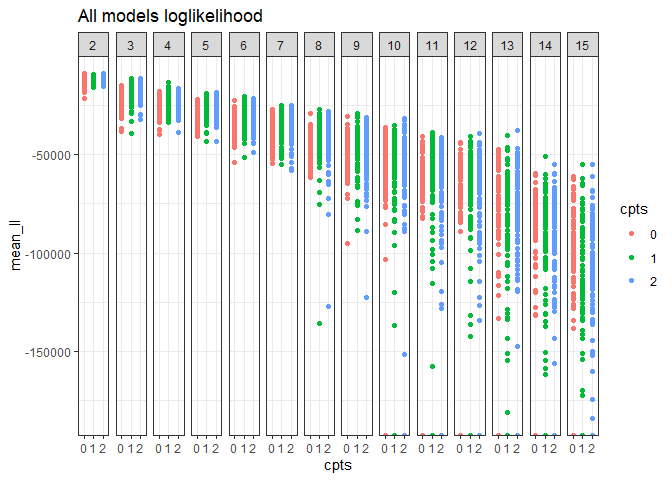
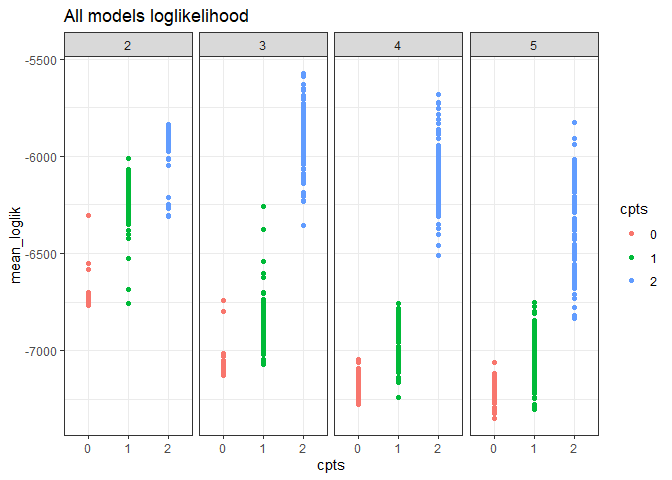
run this

diff --git a/analysis/reports/crossval_scale_results.md b/analysis/reports/crossval_scale_results.md
@@ -44,19 +44,20 @@ all_evals <- all_evals %>%
 #   ggtitle("All models loglikelihood")
 
 all_evals_summary <- all_evals %>%
-  group_by(k, seed, cpts, cpts_seed_k, cpts_k) %>%
-  summarize(mean_ll = mean(loglik),
-            upper_97_ll = quantile(loglik, probs = .975),
-            lower_2_ll = quantile(loglik, probs = .025),
-            n_infinite = sum(is.infinite(loglik))) %>%
+  group_by(k, seed, cpts, cpts_seed_k, cpts_k, mean_loglik) %>%
+  summarize(mean_ll = mean(loglik, na.rm = T),
+            upper_97_ll = quantile(loglik, probs = .975, na.rm= T),
+            lower_2_ll = quantile(loglik, probs = .025, na.rm =T),
+            n_infinite = sum(is.infinite(loglik)),
+            n_na = sum(is.na(loglik))) %>%
   ungroup() %>%
-  arrange(desc(mean_ll))
+  arrange(desc(mean_loglik))
 ```
 
-    ## `summarise()` regrouping output by 'k', 'seed', 'cpts', 'cpts_seed_k' (override with `.groups` argument)
+    ## `summarise()` regrouping output by 'k', 'seed', 'cpts', 'cpts_seed_k', 'cpts_k' (override with `.groups` argument)
 
 ``` r
-ggplot(all_evals_summary, aes(x = cpts, y = mean_ll, color = cpts)) +
+ggplot(all_evals_summary, aes(x = cpts, y = mean_loglik, color = cpts)) +
   geom_point() +
 facet_wrap(vars(k), nrow = 1) +
   theme_bw() +
@@ -74,40 +75,44 @@ all_evals_summary <- all_evals_summary %>%
 head(all_evals_summary)
 ```
 
-    ## # A tibble: 6 x 10
-    ##   k     seed  cpts  cpts_seed_k cpts_k mean_ll upper_97_ll lower_2_ll n_infinite
-    ##   <fct> <fct> <fct> <chr>       <chr>    <dbl>       <dbl>      <dbl>      <int>
-    ## 1 2     106   2     2_106_2     2_2     -8797.      -7335.    -10208.          0
-    ## 2 2     78    2     2_78_2      2_2     -8822.      -7487.    -10320.          0
-    ## 3 2     148   0     0_148_2     2_0     -8967.      -8565.     -9382.          0
-    ## 4 2     168   2     2_168_2     2_2     -8976.      -7603.    -10947.          0
-    ## 5 2     148   1     1_148_2     2_1     -9057.      -8594.     -9556.          0
-    ## 6 2     148   2     2_148_2     2_2     -9090.      -8646.     -9558.          0
-    ## # ... with 1 more variable: in_95 <lgl>
+<div class="kable-table">
+
+| k | seed | cpts | cpts\_seed\_k | cpts\_k | mean\_loglik |   mean\_ll | upper\_97\_ll | lower\_2\_ll | n\_infinite | n\_na | in\_95 |
+| :- | :--- | :--- | :------------ | :------ | -----------: | ---------: | ------------: | -----------: | ----------: | ----: | :----- |
+| 3 | 30   | 2    | 2\_30\_3      | 3\_2    |   \-5573.931 | \-5589.182 |    \-5039.125 |   \-6183.494 |           0 |     1 | TRUE   |
+| 3 | 114  | 2    | 2\_114\_3     | 3\_2    |   \-5586.718 | \-5588.888 |    \-5078.362 |   \-6245.065 |           0 |     4 | TRUE   |
+| 3 | 140  | 2    | 2\_140\_3     | 3\_2    |   \-5628.473 | \-5559.349 |    \-5113.640 |   \-6076.477 |           0 |     7 | TRUE   |
+| 3 | 8    | 2    | 2\_8\_3       | 3\_2    |   \-5653.260 | \-5686.590 |    \-5045.429 |   \-6434.138 |           0 |    14 | TRUE   |
+| 3 | 70   | 2    | 2\_70\_3      | 3\_2    |   \-5658.658 | \-5578.024 |    \-5209.741 |   \-6206.367 |           0 |    11 | TRUE   |
+| 4 | 176  | 2    | 2\_176\_4     | 4\_2    |   \-5679.831 | \-5653.665 |    \-5178.633 |   \-6225.267 |           0 |     1 | TRUE   |
+
+</div>
 
 ``` r
 all_evals_summary[1:15,]
 ```
 
-    ## # A tibble: 15 x 10
-    ##    k     seed  cpts  cpts_seed_k cpts_k mean_ll upper_97_ll lower_2_ll
-    ##    <fct> <fct> <fct> <chr>       <chr>    <dbl>       <dbl>      <dbl>
-    ##  1 2     106   2     2_106_2     2_2     -8797.      -7335.    -10208.
-    ##  2 2     78    2     2_78_2      2_2     -8822.      -7487.    -10320.
-    ##  3 2     148   0     0_148_2     2_0     -8967.      -8565.     -9382.
-    ##  4 2     168   2     2_168_2     2_2     -8976.      -7603.    -10947.
-    ##  5 2     148   1     1_148_2     2_1     -9057.      -8594.     -9556.
-    ##  6 2     148   2     2_148_2     2_2     -9090.      -8646.     -9558.
-    ##  7 2     42    1     1_42_2      2_1     -9100.      -7957.    -10472.
-    ##  8 2     78    1     1_78_2      2_1     -9140.      -7721.    -10443.
-    ##  9 2     154   1     1_154_2     2_1     -9159.      -7758.    -10554.
-    ## 10 2     176   2     2_176_2     2_2     -9172.      -8032.    -10451.
-    ## 11 2     154   2     2_154_2     2_2     -9194.      -7603.    -11183.
-    ## 12 2     6     1     1_6_2       2_1     -9201.      -8010.    -10787.
-    ## 13 2     104   2     2_104_2     2_2     -9210.      -7604.    -11149.
-    ## 14 2     36    2     2_36_2      2_2     -9227.      -7537.    -10569.
-    ## 15 2     168   1     1_168_2     2_1     -9276.      -7640.    -10600.
-    ## # ... with 2 more variables: n_infinite <int>, in_95 <lgl>
+<div class="kable-table">
+
+| k | seed | cpts | cpts\_seed\_k | cpts\_k | mean\_loglik |   mean\_ll | upper\_97\_ll | lower\_2\_ll | n\_infinite | n\_na | in\_95 |
+| :- | :--- | :--- | :------------ | :------ | -----------: | ---------: | ------------: | -----------: | ----------: | ----: | :----- |
+| 3 | 30   | 2    | 2\_30\_3      | 3\_2    |   \-5573.931 | \-5589.182 |    \-5039.125 |   \-6183.494 |           0 |     1 | TRUE   |
+| 3 | 114  | 2    | 2\_114\_3     | 3\_2    |   \-5586.718 | \-5588.888 |    \-5078.362 |   \-6245.065 |           0 |     4 | TRUE   |
+| 3 | 140  | 2    | 2\_140\_3     | 3\_2    |   \-5628.473 | \-5559.349 |    \-5113.640 |   \-6076.477 |           0 |     7 | TRUE   |
+| 3 | 8    | 2    | 2\_8\_3       | 3\_2    |   \-5653.260 | \-5686.590 |    \-5045.429 |   \-6434.138 |           0 |    14 | TRUE   |
+| 3 | 70   | 2    | 2\_70\_3      | 3\_2    |   \-5658.658 | \-5578.024 |    \-5209.741 |   \-6206.367 |           0 |    11 | TRUE   |
+| 4 | 176  | 2    | 2\_176\_4     | 4\_2    |   \-5679.831 | \-5653.665 |    \-5178.633 |   \-6225.267 |           0 |     1 | TRUE   |
+| 3 | 100  | 2    | 2\_100\_3     | 3\_2    |   \-5689.462 | \-5674.167 |    \-5287.222 |   \-6419.909 |           0 |     7 | TRUE   |
+| 3 | 12   | 2    | 2\_12\_3      | 3\_2    |   \-5689.485 | \-5693.960 |    \-5189.623 |   \-6397.838 |           0 |    14 | TRUE   |
+| 3 | 104  | 2    | 2\_104\_3     | 3\_2    |   \-5693.657 | \-5678.442 |    \-5314.032 |   \-6178.807 |           0 |     6 | TRUE   |
+| 3 | 66   | 2    | 2\_66\_3      | 3\_2    |   \-5706.247 | \-5671.256 |    \-5281.434 |   \-6262.293 |           0 |    13 | TRUE   |
+| 4 | 26   | 2    | 2\_26\_4      | 4\_2    |   \-5721.939 | \-5680.183 |    \-5250.074 |   \-6450.900 |           0 |     0 | TRUE   |
+| 4 | 118  | 2    | 2\_118\_4     | 4\_2    |   \-5727.140 | \-5703.147 |    \-5223.795 |   \-6309.083 |           0 |     5 | TRUE   |
+| 3 | 176  | 2    | 2\_176\_3     | 3\_2    |   \-5727.715 | \-5725.845 |    \-5187.788 |   \-6281.225 |           0 |     7 | TRUE   |
+| 3 | 4    | 2    | 2\_4\_3       | 3\_2    |   \-5730.578 | \-5720.395 |    \-5207.252 |   \-6440.602 |           0 |    17 | TRUE   |
+| 3 | 164  | 2    | 2\_164\_3     | 3\_2    |   \-5731.853 | \-5759.238 |    \-5252.639 |   \-6356.033 |           0 |    10 | TRUE   |
+
+</div>
 
 ``` r
 ggplot(filter(all_evals, cpts_seed_k %in% all_evals_summary$cpts_seed_k[1:25]), aes(x = k, y = loglik, group = cpts_seed_k, color = cpts)) +
@@ -116,6 +121,8 @@ ggplot(filter(all_evals, cpts_seed_k %in% all_evals_summary$cpts_seed_k[1:25]), 
   theme_bw() +
   ggtitle("Best 25 models loglikelihood")
 ```
+
+    ## Warning: Removed 202 rows containing non-finite values (stat_boxplot).
 
 ![](crossval_scale_results_files/figure-gfm/unnamed-chunk-1-2.png)<!-- -->
 
@@ -127,99 +134,109 @@ ggplot(filter(all_evals, cpts_seed_k %in% filter(all_evals_summary, in_95)$cpts_
   ggtitle("Models w/LL overlapping top 95%")
 ```
 
+    ## Warning: Removed 7012 rows containing non-finite values (stat_boxplot).
+
 ![](crossval_scale_results_files/figure-gfm/unnamed-chunk-1-3.png)<!-- -->
 
-First note the considerable spread. Looks like 2 topics wins handily,
-but that 0, 1, or 2 changepoints perform similarly. Increasing the
-number of iterations and/or aggregate estimates might decrease some of
-this spread. Increasing `nit` gives the model the chance to find the
-best place to put the changepoints. These models are run with just 100
-iterations, for speed/debugging reasons, but 1000 or 10000 may be
-preferable. (Just a thought, for speed reasons - seems like another
-99000 iterations will not make the k = 14 models do better; so once you
-narrow down to a general state space you could scale up the iterations
-dramatically to choose among changepoint models). Increasing `nevals` -
-especially once you have more iterations - might refine the sampling
-around the LL for any given model.
-
-The highest mean LL is for the model: 2\_106\_2
-
-2 changepoints, seed 106, 2 topics.
-
 ``` r
-#plot(ldas_only$`k: 14, seed: 8`)
-
-lda_2_106 <- LDATS::LDA_set_user_seeds(bbs_rtrg_1_11$abundance, 2, 106)
+some_ldas <- LDATS::LDA_set_user_seeds(bbs_rtrg_1_11$abundance, topics = c(2:5), seed = 2)
 ```
 
-    ## Running LDA with 2 topics (seed 106)
+    ## Running LDA with 2 topics (seed 2)
+
+    ## Running LDA with 3 topics (seed 2)
+
+    ## Running LDA with 4 topics (seed 2)
+
+    ## Running LDA with 5 topics (seed 2)
 
 ``` r
-plot_lda_comp(lda_2_106)
-```
-
-![](crossval_scale_results_files/figure-gfm/unnamed-chunk-2-1.png)<!-- -->
-
-``` r
-plot_lda_year(lda_2_106, bbs_rtrg_1_11$covariates$year)
-```
-
-![](crossval_scale_results_files/figure-gfm/unnamed-chunk-2-2.png)<!-- -->
-
-Most of the difference between topics seems to come in the details -
-both have a big contribution, close to 50-50, from some really common
-species. Then there are several rare species that are all topic 1 or
-topic 2. There might be a way to quantify this.
-
-``` r
-ts_2_106 <- LDATS::TS_on_LDA(lda_2_106, as.data.frame(bbs_rtrg_1_11$covariates), timename = 'year', formulas = ~ 1, nchangepoints = c(0:2), control = LDATS::TS_control(nit = 1000))
-```
-
-    ## Running TS model with 0 changepoints and equation gamma ~ 1 on LDA model k: 2, seed: 106
-
-    ## Running TS model with 1 changepoints and equation gamma ~ 1 on LDA model k: 2, seed: 106
-
-    ##   Estimating changepoint distribution
-
-    ##   Estimating regressor distribution
-
-    ## Running TS model with 2 changepoints and equation gamma ~ 1 on LDA model k: 2, seed: 106
-
-    ##   Estimating changepoint distribution
-
-    ##   Estimating regressor distribution
-
-``` r
-for(i in 1:3) {
-plot(ts_2_106[[i]], selection = "mode")
+for(i in 1:length(some_ldas)) {
+  print(plot_lda_year(some_ldas[[i]], covariate_data = bbs_rtrg_1_11$covariates$year))
 }
 ```
 
-![](crossval_scale_results_files/figure-gfm/unnamed-chunk-3-1.png)<!-- -->![](crossval_scale_results_files/figure-gfm/unnamed-chunk-3-2.png)<!-- -->![](crossval_scale_results_files/figure-gfm/unnamed-chunk-3-3.png)<!-- -->
+![](crossval_scale_results_files/figure-gfm/unnamed-chunk-1-4.png)<!-- -->![](crossval_scale_results_files/figure-gfm/unnamed-chunk-1-5.png)<!-- -->![](crossval_scale_results_files/figure-gfm/unnamed-chunk-1-6.png)<!-- -->![](crossval_scale_results_files/figure-gfm/unnamed-chunk-1-7.png)<!-- -->
 
-Note that the uncertainty around the cpt locations corresponds mostly to
-the gappyness of the time series.
+<!-- First note the considerable spread. Looks like 2 topics wins handily, but that 0, 1, or 2 changepoints perform similarly. Increasing the number of iterations and/or aggregate estimates might decrease some of this spread. Increasing `nit` gives the model the chance to find the best place to put the changepoints. These models are run with just 100 iterations, for speed/debugging reasons, but 1000 or 10000 may be preferable. (Just a thought, for speed reasons - seems like another 99000 iterations will not make the k = 14 models do better; so once you narrow down to a general state space you could scale up the iterations dramatically to choose among changepoint models). Increasing `nevals` - especially once you have more iterations - might refine the sampling around the LL for any given model.  -->
 
-``` r
-# 
-# lda_14_8 <- LDATS::LDA_set_user_seeds(bbs_rtrg_1_11$abundance, 14, 8)
-# plot_lda_comp(lda_14_8)
-# 
-# plot_lda_year(lda_14_8, bbs_rtrg_1_11$covariates$year)
-# # 
-# # loadd(ldats_fit_bbs_rtrg_1_11_2L_6_1L)
-# # 
-# # for(i in 1:23){
-# #   plot(ldats_fit_bbs_rtrg_1_11_2L_6_1L[[i]]$fitted_lda)
-# # plot(ldats_fit_bbs_rtrg_1_11_2L_6_1L[[i]]$fitted_ts, selection = "mode")
-# # }
-# 
-# ts_14_8 <- LDATS::TS_on_LDA(lda_14_8, as.data.frame(bbs_rtrg_1_11$covariates), timename = 'year', formulas = ~ 1, nchangepoints = c(0:2), control = LDATS::TS_control(nit = 1000))
-# 
-# for(i in 1:length(ts_14_8)) {
-#   plot(ts_14_8[[i]])
-# }
-```
+<!-- The highest mean LL is for the model: 2_140_3 -->
+
+<!-- 2 changepoints, seed 106, 2 topics. -->
+
+<!-- ```{r} -->
+
+<!-- #plot(ldas_only$`k: 14, seed: 8`) -->
+
+<!-- lda_2_106 <- LDATS::LDA_set_user_seeds(bbs_rtrg_1_11$abundance, 2, 106) -->
+
+<!-- plot_lda_comp(lda_2_106) -->
+
+<!-- plot_lda_year(lda_2_106, bbs_rtrg_1_11$covariates$year) -->
+
+<!-- ``` -->
+
+<!-- Most of the difference between topics seems to come in the details - both have a big contribution, close to 50-50, from some really common species. Then there are several rare species that are all topic 1 or topic 2. There might be a way to quantify this. -->
+
+<!-- ```{r} -->
+
+<!-- ts_2_106 <- LDATS::TS_on_LDA(lda_2_106, as.data.frame(bbs_rtrg_1_11$covariates), timename = 'year', formulas = ~ 1, nchangepoints = c(0:2), control = LDATS::TS_control(nit = 1000)) -->
+
+<!-- for(i in 1:3) { -->
+
+<!-- plot(ts_2_106[[i]], selection = "mode") -->
+
+<!-- } -->
+
+<!-- select_w_aicc <- LDATS::select_TS(ts_2_106, control = list(LDATS::TS_control(measurer = "AICc"))) -->
+
+<!-- library(LDATS) -->
+
+<!-- plot(select_w_aicc) -->
+
+<!-- ``` -->
+
+<!-- Note that the uncertainty around the cpt locations corresponds mostly to the gappyness of the time series.  -->
+
+<!-- ```{r} -->
+
+<!-- #  -->
+
+<!-- # lda_14_8 <- LDATS::LDA_set_user_seeds(bbs_rtrg_1_11$abundance, 14, 8) -->
+
+<!-- # plot_lda_comp(lda_14_8) -->
+
+<!-- #  -->
+
+<!-- # plot_lda_year(lda_14_8, bbs_rtrg_1_11$covariates$year) -->
+
+<!-- # #  -->
+
+<!-- # # loadd(ldats_fit_bbs_rtrg_1_11_2L_6_1L) -->
+
+<!-- # #  -->
+
+<!-- # # for(i in 1:23){ -->
+
+<!-- # #   plot(ldats_fit_bbs_rtrg_1_11_2L_6_1L[[i]]$fitted_lda) -->
+
+<!-- # # plot(ldats_fit_bbs_rtrg_1_11_2L_6_1L[[i]]$fitted_ts, selection = "mode") -->
+
+<!-- # # } -->
+
+<!-- #  -->
+
+<!-- # ts_14_8 <- LDATS::TS_on_LDA(lda_14_8, as.data.frame(bbs_rtrg_1_11$covariates), timename = 'year', formulas = ~ 1, nchangepoints = c(0:2), control = LDATS::TS_control(nit = 1000)) -->
+
+<!-- #  -->
+
+<!-- # for(i in 1:length(ts_14_8)) { -->
+
+<!-- #   plot(ts_14_8[[i]]) -->
+
+<!-- # } -->
+
+<!-- ``` -->
 
 ``` r
 DBI::dbDisconnect(db)
